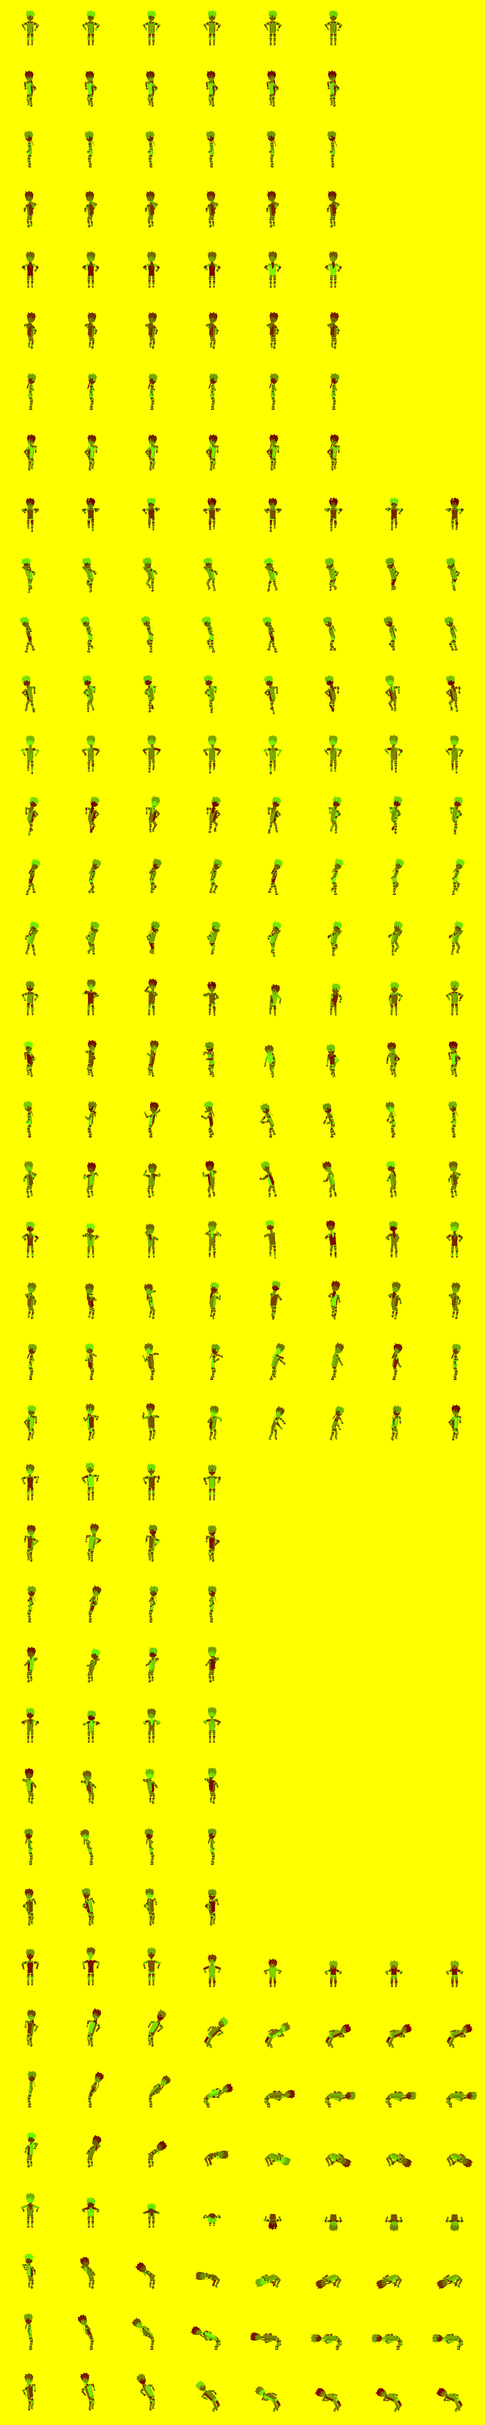
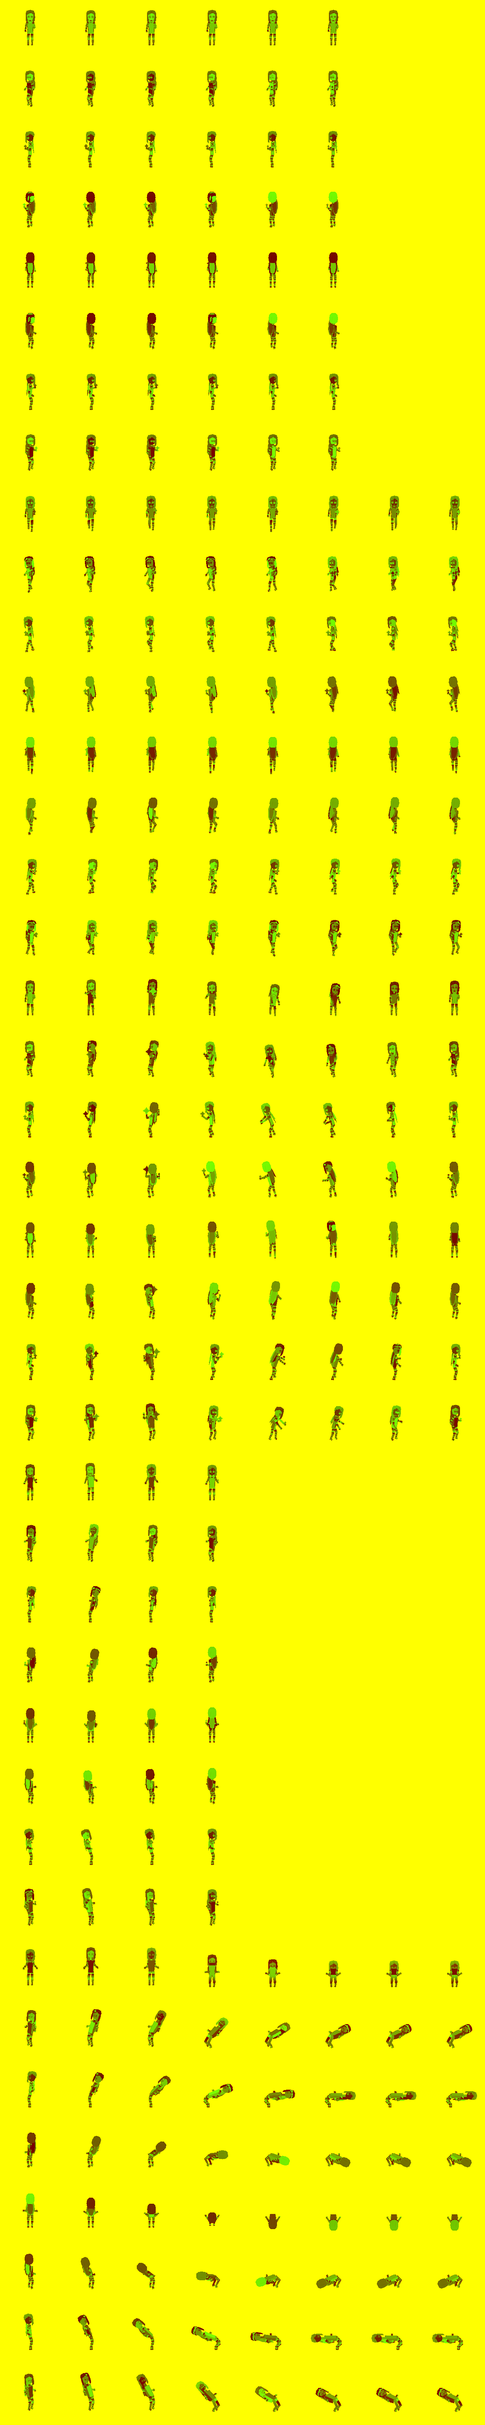
Redraw the Priest as its own character: round face, long gold hair, ivory and crimson robe, upright poses with a holy-light star
The Priest shared the Assassin's face, hair and body. It now has its own head,
hair and circlet, a standing collar, crimson tabard and sun medallion, a longer
mace with a tassel, and its own idle, walk, attack, hurt and die poses. Atlases
re-exported from the rebuilt PixelFlow sprites.

diff --git a/client/game.js b/client/game.js
@@ -30,7 +30,7 @@
       blades: 'Blades', assassinTip: 'Click the Assassin to slash. Change outfits and blades in the field with E.',
       assassinLoading: 'Calling the Assassin…', assassinError: 'Assassin sprites could not load. Select Assassin again to retry.',
       assassinArmorNames: ['Simple cloth', 'Nightweave', 'Moonveil'], assassinWeaponNames: ['Empty hands', 'Twin daggers', 'Moonfang'],
-      priestDesc: 'A hooded healer in the Assassin\u2019s sleek style. Mend and ward your party, then smite what is left standing with a mace and holy light.',
+      priestDesc: 'A golden-haired healer in ivory and crimson robes. Mend and ward your party, then smite what is left standing with a mace and holy light.',
       priestHint: 'Click to move or attack · WASD to walk · Space to strike · 1–9 skills (Mend heals your most wounded ally) · E character · B bags · F talk · Esc for menu',
       maces: 'Mace', priestTip: 'Click the Priest to strike. Change robes and maces in the field with E.',
       priestLoading: 'Calling the Priest…', priestError: 'Priest sprites could not load. Select Priest again to retry.',
@@ -67,7 +67,7 @@
       blades: '쌍검', assassinTip: '암살자를 눌러 베기를 시전하세요. 필드에서 E 키로 장비를 바꿀 수 있습니다.',
       assassinLoading: '암살자 소환 중…', assassinError: '암살자를 불러오지 못했습니다. 다시 선택해 주세요.',
       assassinArmorNames: ['기본 옷', '밤의 의복', '달의 장막'], assassinWeaponNames: ['맨손', '쌍단검', '달송곳니'],
-      priestDesc: '암살자의 날렵한 스타일을 입은 치유 사제. 파티를 치유하고 보호하며, 철퇴와 성스러운 빛으로 적을 응징합니다.',
+      priestDesc: '상아색과 진홍색 로브를 걸친 금발의 치유 사제. 파티를 치유하고 보호하며, 철퇴와 성스러운 빛으로 적을 응징합니다.',
       priestHint: '클릭: 이동·공격 · WASD: 걷기 · 스페이스: 타격 · E: 장비 · F: 대화 · 1–9: 스킬 (첫 스킬은 치유) · Esc: 메뉴',
       maces: '철퇴', priestTip: '사제를 눌러 철퇴를 휘두르세요. 필드에서 E 키로 장비를 바꿀 수 있습니다.',
       priestLoading: '사제 소환 중…', priestError: '사제를 불러오지 못했습니다. 다시 선택해 주세요.',

diff --git a/client/priestsprite.js b/client/priestsprite.js
@@ -1,10 +1,10 @@
 'use strict';
 (() => {
-  // The Assassin\u2019s style as a healer: shares only the equipment compositor; artwork and animation are separate.
+  // A golden-haired healer in ivory and crimson robes: shares only the equipment compositor; artwork and animation are the Priest\u2019s own.
   class PriestSprite extends MageSprite {}
   PriestSprite.TIERS = [];
   PriestSprite.METADATA = 'assets/priest_sprites.txt';
-  PriestSprite.HAIR = ['#e3d6b0', '#9eaccf', '#b5616d', '#624357', '#334c4a', '#465278'];
+  PriestSprite.HAIR = ['#ecd290', '#9eaccf', '#b5616d', '#624357', '#334c4a', '#465278'];
   PriestSprite.SKIN = ['#f0bfac', '#ffe0c5', '#cc927b', '#9c695a'];
   PriestSprite.ARMOR = { none: { name: 'Simple cloth', defense: 0 }, pilgrim: { name: 'Pilgrim robes', defense: 3 }, dawn: { name: 'Dawnweave vestments', defense: 5 } };
   PriestSprite.WEAPON = { none: { name: 'Empty hands', attack: 0 }, mace: { name: 'Oak mace', attack: 4 }, sunmace: { name: 'Sunbreaker mace', attack: 8 } };

diff --git a/scripts/make_priest_sprites.py b/scripts/make_priest_sprites.py
@@ -43,36 +43,37 @@ DIRS = rig.DIRS
 PARTS = ['body', 'armor_pilgrim', 'armor_dawn', 'weapon_mace', 'weapon_sunmace']
 MATS = {
     'skin': ['#92595c', '#ce9182', '#f0bfac', '#ffe0ce'],
-    'hair': ['#151a30', '#293451', '#465278', '#7985ac'],
-    'brow': ['#171526', '#242037', '#332946', '#443750'],
+    'hair': ['#8a6a3a', '#c9a45c', '#ecd290', '#fff4c8'],      # long pale-gold hair (the client recolours by ramp)
+    'brow': ['#6a4c28', '#7e5e34', '#a98650', '#c0985a'],
     'cloth': ['#4a4048', '#76686f', '#a99a9c', '#d8c9c0'],
     'pants': ['#2a2a40', '#43476a', '#68729a', '#97a2c4'],
-    'robe': ['#7a7490', '#aaa3bf', '#dcd6e8', '#fffaf4'],       # ivory robe, lavender in shadow
-    'dawn': ['#a08a8e', '#d4bdb4', '#fbeadb', '#fffefc'],      # warm white vestments
+    'robe': ['#8c7a6e', '#c4b09c', '#ebdcc2', '#fff8e6'],       # warm ivory robe, parchment in shadow
+    'dawn': ['#7f90ae', '#bccbe2', '#eef3fb', '#fdfeff'],      # cool white vestments, blue in shadow
     'gold': ['#6e4a12', '#b0801f', '#e8b840', '#fff0a0'],
-    'stole': ['#4a2a6e', '#7a4aa6', '#b585d8', '#e6c4ff'],     # violet stole, the Assassin's scarf recoloured
+    'stole': ['#5a1424', '#8f2438', '#c8465a', '#f28a94'],     # crimson tabard and tassel
     'leather': ['#2a2030', '#463a50', '#6a5a70', '#98889e'],
     'wood': ['#3a2420', '#6e4336', '#a77a56', '#d6ae82'],
     'silver': ['#3a516d', '#7791b0', '#bdcfe5', '#f2f5ff'],
     'glow': ['#d79a1a', '#ffc94a', '#ffe99a', '#fffbe0'],
-    'iris': ['#6a4a1c', '#a7762c', '#e0b050', '#fff0b0'],
+    'iris': ['#2a5a8c', '#4a8cc4', '#8cc8f0', '#d8f2ff'],
     'white': ['#c0aec4', '#ded2e2', '#f6eef1', '#fffbf6'],
     'mouth': ['#5c2d45', '#86506a', '#c88493', '#e9a4ab'],
 }
 PALETTE = ['#00000000', '#18182a', '#ffffff'] + [c for r in MATS.values() for c in r]
 assert len(PALETTE) == len(set(PALETTE)) and len(PALETTE) <= 255
 COLOR = {name: [3 + 4 * i + k for k in range(4)] for i, name in enumerate(MATS)}
-DEFAULT = dict(root=(0, 0, 0), lean=4, twist=0, roll=0, sway=0, eyes='open',
-               handL=(-13, 6, 50), handR=(13, 3, 48),
+DEFAULT = dict(root=(0, 0, 0), lean=1, twist=0, roll=0, sway=0, eyes='open', light=1.0,
+               handL=(-9, 12, 58), handR=(12, 7, 46),
                footL=(-5, 0, 4), footR=(5, 0, 4),
-               mace=(.1, .3, 1), ground=False, dropped=False)
+               mace=(0, .06, 1), ground=False, dropped=False)
 HIP, SHOULDER = 37, 66
 
 
 def idle(k):
+    # Upright and calm: the mace held like a sceptre, the free palm raised with a small holy light that pulses.
     a = k / 6 * math.tau
-    return dict(root=(0, 0, -.35 * math.sin(a)), sway=math.sin(a),
-                handL=(-13, 6, 50 + .5 * math.sin(a)), eyes='closed' if k == 4 else 'open')
+    return dict(root=(0, 0, -.3 * math.sin(a)), sway=math.sin(a), light=.85 + .3 * math.sin(a),
+                handL=(-9, 12, 58 + .8 * math.sin(a)), eyes='closed' if k == 4 else 'open')
 
 
 def walk(k):
@@ -80,37 +81,38 @@ def walk(k):
     a = q * math.tau
     def foot(s, t):
         t %= 1
-        return (s * 5, 9 - t * 36 if t < .5 else -9 + (t - .5) * 36,
-                4 + (6 * math.sin((t - .5) * math.tau) if t >= .5 else 0))
-    return dict(lean=15, roll=2 * math.sin(a), twist=5 * math.sin(a),
-                root=(0, 0, -.65 * math.cos(a * 2)), sway=3 * math.sin(a),
-                handL=(-14, -4 - math.sin(a) * 3, 53), handR=(14, -5 + math.sin(a) * 3, 52),
-                mace=(.1, .3 - .25 * math.sin(a), 1),
+        return (s * 4, 8 - t * 32 if t < .5 else -8 + (t - .5) * 32,
+                4 + (5 * math.sin((t - .5) * math.tau) if t >= .5 else 0))
+    return dict(lean=5, roll=1.5 * math.sin(a), twist=3 * math.sin(a),
+                root=(0, 0, -.5 * math.cos(a * 2)), sway=3.5 * math.sin(a), light=1 + .2 * math.sin(a * 2),
+                handL=(-10, 10 - math.sin(a) * 2, 56), handR=(12, 7 + math.sin(a) * 2, 46),
+                mace=(0, .08 + .08 * math.sin(a), 1),
                 footL=foot(-1, q), footR=foot(1, q + .5))
 
 
 def attack(k):
-    # Raise the mace, bring it down in front on frame 4 (the impact), the free hand blessing forward.
-    lean = [6, -4, -8, 8, 20, 17, 10, 5][k]
-    twist = [-4, -16, -26, -4, 22, 26, 10, 0][k]
-    right = [(13, 3, 48), (15, -6, 64), (16, -10, 74), (12, 12, 68), (9, 24, 52), (9, 22, 42), (11, 13, 44), (13, 3, 48)][k]
-    mace = [(.1, .3, 1), (.1, -.3, 1), (.1, -.8, .8), (.05, .5, .85), (0, 1, -.1), (0, .85, -.55), (.1, .5, .5), (.1, .3, 1)][k]
-    left = [(-13, 6, 50), (-12, 12, 62), (-10, 18, 70), (-8, 20, 66), (-8, 22, 60), (-10, 16, 54), (-12, 9, 51), (-13, 6, 50)][k]
+    # The light gathers on the free hand while the mace goes up, then the mace comes down and the light is thrown forward.
+    lean = [2, -4, -8, 6, 18, 15, 8, 3][k]
+    twist = [-2, -14, -24, -4, 20, 24, 10, 0][k]
+    right = [(12, 7, 46), (15, -2, 62), (16, -8, 74), (12, 12, 68), (9, 24, 52), (9, 22, 42), (11, 13, 44), (12, 7, 46)][k]
+    mace = [(0, .06, 1), (.1, -.3, 1), (.1, -.8, .8), (.05, .5, .85), (0, 1, -.1), (0, .85, -.55), (.1, .5, .5), (0, .06, 1)][k]
+    left = [(-9, 12, 58), (-10, 13, 64), (-9, 15, 70), (-7, 20, 66), (-6, 26, 58), (-8, 20, 54), (-9, 14, 56), (-9, 12, 58)][k]
+    light = [1, 1.5, 2, 1.3, .6, 0, 0, .6][k]
     f = [0, -.3, -.5, .5, 1, .65, .25, 0][k]
-    return dict(lean=lean, twist=twist, root=(0, max(0, f) * 2, -.6),
+    return dict(lean=lean, twist=twist, root=(0, max(0, f) * 2, -.6), light=light,
                 handL=left, handR=right, mace=mace, sway=-3 * f,
                 footL=(-6, 4 * max(0, f), 4), footR=(6, -5 * max(0, f), 4))
 
 
 def hurt(k):
     f = [.25, 1, .4, 0][k]
-    return dict(lean=-14 * f, root=(0, -2 * f, 0), twist=9 * f,
-                handL=(-16, 5, 55), handR=(15, 5, 52), eyes='closed' if k < 3 else 'open', sway=-2 * f)
+    return dict(lean=-12 * f, root=(0, -2 * f, 0), twist=8 * f, light=0 if k in (1, 2) else .5,
+                handL=(-15, 5, 55), handR=(15, 5, 52), eyes='closed' if k < 3 else 'open', sway=-2 * f)
 
 
 def die(k):
     return dict(lean=[-5, -23, -43, -66, -85, -90, -90, -90][k],
-                root=(0, 8 if k >= 3 else 0, 0), eyes='closed',
+                root=(0, 8 if k >= 3 else 0, 0), eyes='closed', light=0,
                 handL=(-17, 1, 50), handR=(17, 1, 49),
                 footL=(-5, 9 if k >= 3 else 0, 10 if k >= 3 else 4),
                 footR=(5, 9 if k >= 3 else 0, 10 if k >= 3 else 4),
@@ -166,10 +168,10 @@ class Ink:
         cur[take] = dep[take]
         self.index[y0:y1, x0:x1][take] = idx[take]
 
-    def plate(self, points, mat, tone=2, detail=False):
+    def plate(self, points, mat, tone=2, detail=False, push=0):
         proj = [self.project(p) for p in points]
         xy = [p[0] for p in proj]
-        self.poly(xy, COLOR[mat][tone], np.mean([p[1] for p in proj]) - .01, not detail)
+        self.poly(xy, COLOR[mat][tone], np.mean([p[1] for p in proj]) - .01 + push, not detail)
 
     def bone(self, a, b, r1, r2, mat, zpush=0, tone=2):
         pa, za = self.project(a)
@@ -204,7 +206,7 @@ def render_frame(clip, facing, k):
     joints = {}
     for sx, key in ((-1, 'L'), (1, 'R')):
         s = V(sx * 8, 0, SHOULDER)
-        elbow, hand = rig.ik2(s, V(*p['hand' + key]), 13.5, 13.5, unit(V(sx, -.2, -.3)))
+        elbow, hand = rig.ik2(s, V(*p['hand' + key]), 13.5, 13.5, unit(V(sx * .3, -.45, -1)))
         hip = xf((sx * 4.2, 0, HIP))
         knee, ankle = rig.ik2(hip, V(*p['foot' + key]), 17, 17, unit(V(sx * .1, 1, .1)))
         joints[key] = {'shoulder': xf(s), 'elbow': xf(elbow), 'hand': xf(hand),
@@ -219,15 +221,15 @@ def render_frame(clip, facing, k):
     inks = {part: Ink(psi) for part in PARTS}
     body = inks['body']
 
-    def torso(ink, mat, halfwidth, y, bottom=38, top=67):
+    def torso(ink, mat, halfwidth, y, bottom=38, top=67, push=0):
         for sy in (-1, 1):
             pts = [(-halfwidth, sy * y, top), (halfwidth, sy * y, top),
                    (halfwidth * .72, sy * y, 49), (halfwidth * .84, sy * y, bottom),
                    (-halfwidth * .84, sy * y, bottom), (-halfwidth * .72, sy * y, 49)]
-            ink.plate([xf(q) for q in pts], mat, 2 if sy == 1 else 1)
+            ink.plate([xf(q) for q in pts], mat, 2 if sy == 1 else 1, push=push)
         for sx in (-1, 1):
             ink.plate([xf(q) for q in [(sx * halfwidth, -y, top), (sx * halfwidth, y, top),
-                      (sx * halfwidth * .84, y, bottom), (sx * halfwidth * .84, -y, bottom)]], mat, 1)
+                      (sx * halfwidth * .84, y, bottom), (sx * halfwidth * .84, -y, bottom)]], mat, 1, push=push)
 
     torso(body, 'cloth', 7.8, 3.5)
     body.bone(xf((0, 0, 68)), xf((0, 0, 77)), 2.2, 2.1, 'skin')
@@ -240,62 +242,95 @@ def render_frame(clip, facing, k):
         body.bone(j['elbow'], j['hand'], 2, 1.6, 'skin')
         body.bone(j['hand'] - R @ V(0, 0, 1), j['hand'] + R @ V(0, 0, 1.8), 2.2, 1.8, 'skin', -.2)
 
-    # Face and hair are the Assassin's: oriented to the head's projected axis, almond eyes, angular fringe.
+    # The holy light in the free palm: a four-point star that pulses in idle and gathers before an attack.
+    if p['light'] > .05:
+        lc, ld = body.project(joints['L']['hand'] + V(0, 0, 6.5))
+        for r, inner, tone, outline, push in ((4.6, .34, 1, True, 6), (3.4, .38, 2, False, 6.2), (1.7, .55, 3, False, 6.4)):
+            r *= p['light']
+            star = [lc + V(math.sin(i * math.pi / 4), math.cos(i * math.pi / 4)) * r * (1 if i % 2 == 0 else inner * 1.6) for i in range(8)]
+            body.poly(star, COLOR['glow'][tone], ld - push, outline)
+
+    # A soft round face with big sky-blue eyes, a centre-parted fringe, long pale-gold hair and a gold sun circlet.
     hc, hd = body.project(xf((0, 0, 87)))
     up = unit(body.project(xf((0, 0, 96)))[0] - hc)
     right = V(-up[1], up[0])
     H = lambda x, y: hc + right * x + up * y
     front = -math.cos(psi + rig.rad(p['twist']))
     side = -math.sin(psi + rig.rad(p['twist']))
-    skin_shape = [(-8, 7), (-9.5, 1), (-8.4, -5), (-4.3, -10), (0, -11.3), (4.3, -10), (8.4, -5), (9.5, 1), (8, 7), (0, 10)]
+    skin_shape = [(-8.4, 7), (-9.8, 0), (-8.6, -6), (-4.8, -10.2), (0, -11), (4.8, -10.2), (8.6, -6), (9.8, 0), (8.4, 7), (0, 10)]
     body.poly([H(*q) for q in skin_shape], COLOR['skin'][2], hd - 4)
-    body.poly([H(*q) for q in [(4, 6), (8, 6), (9, 0), (7, -6), (0, -11), (3, -4)]], COLOR['skin'][1], hd - 4.05, False)
+    body.poly([H(*q) for q in [(4.5, 6), (8.4, 6), (9.7, 0), (7.6, -6), (0, -10.8), (3.5, -4)]], COLOR['skin'][1], hd - 4.05, False)
     if front < -.4:
-        body.poly([H(*q) for q in [(-9, 8), (-10, 0), (-8, -8), (-4, -10), (5, -9), (9, -5), (10, 4), (6, 12), (-3, 13)]], COLOR['hair'][1], hd - 5)
+        body.poly([H(*q) for q in [(-10, 9), (-11.4, 0), (-10, -9), (-5, -13), (5, -13), (10, -9), (11.4, 0), (10, 9), (5, 14), (-5, 14)]], COLOR['hair'][2], hd - 5)
+        body.poly([H(*q) for q in [(0, 1), (5, 4), (10, 4), (11.4, 0), (10, -9), (5, -13), (0, -12), (1, -5)]], COLOR['hair'][1], hd - 5.05, False)
+        body.poly([H(*q) for q in [(-8, 11), (-3, 13.6), (4, 13.2), (7.5, 10.5), (2, 11.6), (-4, 11)]], COLOR['hair'][3], hd - 5.1, False)
+        body.poly([H(*q) for q in [(-5, 3), (-2, 5), (-3, -6), (-6, -9)]], COLOR['hair'][3], hd - 5.12, False)
     else:
         for sx in (-1, 1):
             if abs(side) > .85 and sx * side < 0:
                 continue
-            ex = sx * 4 * max(.28, front) + side * 3.3
-            ey = -1.3
+            ex = sx * 4.2 * max(.28, front) + side * 3.4
+            ey = -2.6
             if p['eyes'] == 'closed':
-                body.poly([H(ex - 2.3, ey), H(ex, ey - .6), H(ex + 2.3, ey + .5)], 1, hd - 5.8)
+                body.poly([H(ex - 2.3, ey + .7), H(ex, ey - .5), H(ex + 2.3, ey + .7), H(ex, ey + .1)], 1, hd - 5.8)
             else:
-                body.poly([H(ex - 2.6, ey + .6), H(ex - 1.2, ey + 2), H(ex + 2.4, ey + 1.1),
-                           H(ex + 2, ey - 1.8), H(ex - .4, ey - 2)], COLOR['white'][2], hd - 5.3)
-                body.poly([H(ex - .5, ey + 1.5), H(ex + 1.2, ey + 1), H(ex + 1.1, ey - 1.6), H(ex - .6, ey - 1.6)], COLOR['iris'][2], hd - 5.5, False)
-                body.poly([H(ex - .1, ey + .8), H(ex + .5, ey + .8), H(ex + .5, ey - 1.2), H(ex - .1, ey - 1.2)], 1, hd - 5.55, False)
-                body.poly([H(ex - 2.9, ey + 1.6), H(ex - 1, ey + 2.5), H(ex + 2.6, ey + 1.6), H(ex + 2.3, ey + .8)], 1, hd - 5.6, False)
-                body.poly([H(ex - .7, ey + .7), H(ex + .1, ey + .7), H(ex + .1, ey + 1.4), H(ex - .7, ey + 1.4)], COLOR['white'][3], hd - 5.7, False)
-            body.poly([H(ex - 2.1, 3), H(ex + 2, 3.3), H(ex + 1.7, 3.8), H(ex - 1.9, 3.5)], COLOR['brow'][0], hd - 5.8, False)
+                body.poly([H(ex - 2, ey + 1.5), H(ex, ey + 2.2), H(ex + 2, ey + 1.5), H(ex + 2.2, ey - .5),
+                           H(ex + 1, ey - 2), H(ex - 1, ey - 2), H(ex - 2.2, ey - .5)], COLOR['white'][2], hd - 5.3)
+                body.poly([H(ex - 1.5, ey + 1.7), H(ex + 1.5, ey + 1.7), H(ex + 1.7, ey - 1.7), H(ex - 1.7, ey - 1.7)], COLOR['iris'][1], hd - 5.5, False)
+                body.poly([H(ex - 1.5, ey - .3), H(ex + 1.5, ey - .3), H(ex + 1.5, ey - 1.7), H(ex - 1.5, ey - 1.7)], COLOR['iris'][2], hd - 5.52, False)
+                body.poly([H(ex - .6, ey + .9), H(ex + .6, ey + .9), H(ex + .6, ey - .9), H(ex - .6, ey - .9)], 1, hd - 5.55, False)
+                body.poly([H(ex - 2.4, ey + 1.1), H(ex, ey + 2.5), H(ex + 2.4, ey + 1.2), H(ex + 2.5, ey + .4), H(ex, ey + 1.6), H(ex - 2.3, ey + .3)], 1, hd - 5.6, False)
+                body.poly([H(ex - 1.1, ey + 1.2), H(ex - .1, ey + 1.2), H(ex - .1, ey + .2), H(ex - 1.1, ey + .2)], COLOR['white'][3], hd - 5.7, False)
+                body.poly([H(ex + .5, ey - .9), H(ex + 1.2, ey - .9), H(ex + 1.2, ey - 1.4), H(ex + .5, ey - 1.4)], COLOR['white'][3], hd - 5.7, False)
+            body.poly([H(ex - 2, 2.4), H(ex, 3), H(ex + 2, 2.4), H(ex + 2, 2), H(ex, 2.6), H(ex - 2, 2)], COLOR['brow'][1], hd - 5.8, False)
+            body.poly([H(ex - 1.8, -4.5), H(ex + 1.8, -4.5), H(ex + 1.8, -5.5), H(ex - 1.8, -5.5)], COLOR['mouth'][3], hd - 5.3, False)
         nx = side * 5
-        body.poly([H(nx, -3.7), H(nx + .6, -5), H(nx + 1.5, -4.3)], COLOR['skin'][1], hd - 5.5, False)
-        body.poly([H(nx - 1, -7.4), H(nx + 1.2, -7.3), H(nx + .6, -7.8)], COLOR['mouth'][1], hd - 5.6, False)
-    crown = [(-10, 2), (-11, 8), (-8, 12), (-9, 15), (-3, 13), (1, 16), (3, 13),
-             (8, 14), (8, 11), (11, 8), (10, 2), (8, -3), (6, 2), (4, -1), (1, 6), (-2, 1), (-5, 6), (-8, -2)]
-    body.poly([H(*q) for q in crown], COLOR['hair'][1], hd - 6)
-    for wedge in [[(-8, 10), (-2, 12), (-4, 6), (-8, 3)], [(-1, 12), (3, 13), (6, 7), (2, 7)], [(6, 11), (9, 8), (8, 3)]]:
-        body.poly([H(*q) for q in wedge], COLOR['hair'][2], hd - 6.1, False)
-    body.poly([H(*q) for q in [(-6, 11), (-2, 12), (-3, 10), (-6, 8)]], COLOR['hair'][3], hd - 6.2, False)
-    body.plate([xf(q) for q in [(-3, -5, 79), (2, -5, 79), (4 + p['sway'], -8, 65),
-                               (1 + p['sway'] * 1.5, -10, 59), (-1 + p['sway'], -9, 65)]], 'hair', 1)
+        body.poly([H(nx - .3, -4.4), H(nx + .4, -5.3), H(nx + 1, -4.6)], COLOR['skin'][1], hd - 5.5, False)
+        body.poly([H(nx - 1.2, -7.3), H(nx, -7.9), H(nx + 1.2, -7.3), H(nx, -7.1)], COLOR['mouth'][1], hd - 5.6, False)
+        # Fringe parted in the middle, with long locks framing the cheeks.
+        fringe = [(-10.8, -1), (-11.4, 7), (-8.8, 13), (0, 15.4), (8.8, 13), (11.4, 7), (10.8, -1), (9.2, 2.6), (6.6, 4.4),
+                  (3.2, 6.4), (.4, 9.6), (-.8, 7.4), (-4, 4.8), (-7, 4), (-9.2, 1.8)]
+        body.poly([H(*q) for q in fringe], COLOR['hair'][2], hd - 6)
+        body.poly([H(*q) for q in [(1, 9.6), (3.2, 6.4), (6.6, 4.4), (9.2, 2.6), (10.8, -1), (11.4, 7), (8.8, 13), (4, 14.6)]], COLOR['hair'][1], hd - 6.05, False)
+        body.poly([H(*q) for q in [(-8.4, 11), (-3, 13.8), (3, 13.9), (7, 12), (2, 12.2), (-3, 12)]], COLOR['hair'][3], hd - 6.1, False)
+        for sx in (-1, 1):
+            if abs(side) > .85 and sx * side < 0:
+                continue
+            body.poly([H(sx * q[0], q[1]) for q in [(11, 6), (12, -4), (11.4, -13), (8.4, -16), (8, -8), (8.6, 0), (9.6, 4)]], COLOR['hair'][2], hd - 6.2)
+            body.poly([H(sx * q[0], q[1]) for q in [(11.6, 2), (12, -4), (11.4, -13), (10, -14), (10.4, -5)]], COLOR['hair'][1], hd - 6.25, False)
+    if front >= -.4:
+        body.poly([H(*q) for q in [(-10.8, 5.6), (-6, 8.4), (0, 9.4), (6, 8.4), (10.8, 5.6), (10.8, 4.2), (6, 7), (0, 8), (-6, 7), (-10.8, 4.2)]], COLOR['gold'][2], hd - 6.4)
+        gx = side * 7.5
+        body.poly([H(gx, 11.2), H(gx + 2.1, 8.8), H(gx, 6.6), H(gx - 2.1, 8.8)], COLOR['glow'][2], hd - 6.5)
+        body.poly([H(gx, 9.8), H(gx + .8, 8.8), H(gx, 7.8), H(gx - .8, 8.8)], COLOR['glow'][3], hd - 6.55, False)
+    # Long hair falls behind the shoulders (seen from the back and sides) tied with a crimson ribbon.
+    sw = p['sway']
+    body.plate([xf(q) for q in [(-7, -5.6, 83), (7, -5.6, 83), (9.4, -7, 66), (8.4 + sw, -8.4, 50), (4.6 + sw * 1.3, -9, 42),
+                               (.6 + sw * 1.4, -8.8, 47), (-3.4 + sw * 1.3, -9, 41), (-7.6 + sw, -8.6, 49), (-9.4, -7, 66)]], 'hair', 1)
+    body.plate([xf(q) for q in [(-5, -6.1, 80), (5, -6.1, 80), (6.6, -7.2, 64), (5 + sw, -8.2, 49), (1 + sw * 1.3, -8.4, 45),
+                               (-4 + sw, -8.2, 48), (-6.6, -7.2, 64)]], 'hair', 2)
+    for sx in (-1, 1):
+        body.plate([xf(q) for q in [(sx * 9.2, -5.4, 80), (sx * 9.8, -8.4, 70), (sx * 9, -8.8 + sw, 52), (sx * 9.4, -5.6, 58)]], 'hair', 2 if sx > 0 else 1, True)
+    body.plate([xf(q) for q in [(-8.4, -6.6, 62), (8.4, -6.6, 62), (8.4, -6.7, 59.2), (-8.4, -6.7, 59.2)]], 'stole', 2)
 
     for key, mat in [('armor_pilgrim', 'robe'), ('armor_dawn', 'dawn')]:
         ink = inks[key]
         dawn = mat == 'dawn'
-        torso(ink, mat, 8.6, 4.3, 34, 69)
+        torso(ink, mat, 8.6, 4.3, 34, 69, -1.5)
         # Long robe: a skirt that flares to a hem above the boots, swaying with the body.
         hem, wide, deep, sway = 15, 12, 8.4, p['sway'] * .8
+        if p['ground']:
+            wide, deep = 9.6, 6.6
         for sy in (-1, 1):
             xy = [(-8.2, sy * 4.5, 38), (8.2, sy * 4.5, 38), (wide + sway, sy * deep, hem), (-wide + sway, sy * deep, hem)]
-            ink.plate([xf(q) for q in xy], mat, 3 if sy == 1 else 2)
+            ink.plate([xf(q) for q in xy], mat, 3 if sy == 1 else 2, push=-3)
         for sx in (-1, 1):
             ink.plate([xf(q) for q in [(sx * 8.2, -4.5, 38), (sx * 8.2, 4.5, 38),
-                      (sx * wide + sway, deep, hem), (sx * wide + sway, -deep, hem)]], mat, 2)
+                      (sx * wide + sway, deep, hem), (sx * wide + sway, -deep, hem)]], mat, 2, push=-3)
         # Gold hem band, front and back.
         for sy in (-1, 1):
             ink.plate([xf(q) for q in [(-wide + sway, sy * deep, hem + 3.2), (wide + sway, sy * deep, hem + 3.2),
-                                      (wide + sway, sy * deep, hem), (-wide + sway, sy * deep, hem)]], 'gold', 2 if sy == 1 else 1, True)
+                                      (wide + sway, sy * deep, hem), (-wide + sway, sy * deep, hem)]], 'gold', 2 if sy == 1 else 1, True, push=-3.6)
         # Belt cord.
         ink.plate([xf(q) for q in [(-8.6, 4.8, 42), (8.6, 4.8, 42), (8.4, 4.8, 39), (-8.4, 4.8, 39)]], 'leather', 2)
         ink.plate([xf(q) for q in [(-1.2, 5, 39), (1.2, 5, 39), (2, 5.3, 29), (-.4, 5.3, 28)]], 'gold', 2)
@@ -307,26 +342,35 @@ def render_frame(clip, facing, k):
             ink.bone(j['hand'] - (j['hand'] - j['elbow']) * .2, j['hand'], 3.8, 3.4, 'gold', -.9)
             ink.bone(j['knee'] + (j['ankle'] - j['knee']) * .25, j['ankle'], 3.1, 2.5, 'leather', -.8)
             ink.bone(j['ankle'] + V(0, -1, -1), j['ankle'] + V(0, 4.5, -2), 2.5, 2.5, 'leather', -.8)
-        # Mantle over the shoulders and a violet stole down the front (the Assassin's scarf, kept).
+        # Mantle over the shoulders, a standing fan collar behind the head, a crimson tabard front and back, a sun medallion.
         ink.plate([xf(q) for q in [(-9.5, 4.9, 71), (9.5, 4.9, 71), (11, 5.2, 60), (0, 5.5, 55), (-11, 5.2, 60)]], mat, 1)
         ink.plate([xf(q) for q in [(-9.5, -4.9, 71), (9.5, -4.9, 71), (11, -5.2, 60), (0, -5.5, 55), (-11, -5.2, 60)]], mat, 1)
+        ink.plate([xf(q) for q in [(-8.6, -6.9, 70), (-13, -7, 86), (-6.5, -7.1, 91), (0, -7.2, 93), (6.5, -7.1, 91), (13, -7, 86), (8.6, -6.9, 70)]], mat, 2)
+        ink.plate([xf(q) for q in [(-13, -7.1, 86), (-6.5, -7.2, 91), (0, -7.3, 93), (6.5, -7.2, 91), (13, -7.1, 86), (12.2, -7.1, 84.6), (6.4, -7.2, 89.6), (0, -7.3, 91.4), (-6.4, -7.2, 89.6), (-12.2, -7.1, 84.6)]], 'gold', 2, True)
         ink.plate([xf(q) for q in [(-4.2, 5.6, 75), (4.2, 5.6, 75), (3.2, 5.7, 70), (0, 5.9, 66), (-3.2, 5.7, 70)]], 'gold', 2)
-        stole = [(-3.2, 5.7, 73), (3.2, 5.7, 73), (3.6 + sway * .4, 5.9 + 1.2, 38), (3.8 + sway * .6, deep + .4, hem - 3),
-                 (-3.8 + sway * .6, deep + .4, hem - 3), (-3.6 + sway * .4, 5.9 + 1.2, 38)]
-        ink.plate([xf(q) for q in stole], 'stole', 2)
-        for sx in (-1, 1):
-            ink.plate([xf(q) for q in [(sx * 3.2, 5.8, 73), (sx * 2.5, 5.8, 73), (sx * 2.9 + sway * .4, 6.8, 38), (sx * 3.6 + sway * .6, deep + .5, hem - 3)]], 'gold', 2, True)
-        # Sun emblem on the chest: a small gold cross over the stole.
-        ink.plate([xf(q) for q in [(-.8, 6, 66), (.8, 6, 66), (.8, 6, 52), (-.8, 6, 52)]], 'gold', 3, True)
-        ink.plate([xf(q) for q in [(-3.8, 6, 61.5), (3.8, 6, 61.5), (3.8, 6, 59.2), (-3.8, 6, 59.2)]], 'gold', 3, True)
+        for sy, bulge in ((1, 1.2), (-1, 0)):
+            tab = [(-3.8, sy * (5.7 + bulge * .2), 72), (3.8, sy * (5.7 + bulge * .2), 72), (4.6 + sway * .4, sy * (5.9 + bulge), 38),
+                   (5.2 + sway * .6, sy * (deep + .4), hem - 3), (0 + sway * .6, sy * (deep + .5), hem - 6.5),
+                   (-5.2 + sway * .6, sy * (deep + .4), hem - 3), (-4.6 + sway * .4, sy * (5.9 + bulge), 38)]
+            ink.plate([xf(q) for q in tab], 'stole', 2 if sy == 1 else 1)
+            for sx in (-1, 1):
+                ink.plate([xf(q) for q in [(sx * 3.8, sy * 5.8, 72), (sx * 3.1, sy * 5.8, 72), (sx * 3.9 + sway * .4, sy * 6.8, 38), (sx * 4.6 + sway * .6, sy * (deep + .5), hem - 3)]], 'gold', 2, True)
+        # Sun medallion on the chest: a gold disc with a white-gold core and four rays.
+        for i in range(4):
+            ang = i * math.pi / 2
+            c, s_ = math.cos(ang), math.sin(ang)
+            ink.plate([xf((-1.1 * s_ + 3.4 * c, 6.15, 62 + 1.1 * c + 3.4 * s_)), xf((1.1 * s_ + 3.4 * c, 6.15, 62 - 1.1 * c + 3.4 * s_)),
+                       xf((5.6 * c, 6.15, 62 + 5.6 * s_))], 'gold', 3, True)
+        ink.plate([xf((3.6 * math.cos(i / 8 * math.tau), 6.2, 62 + 3.6 * math.sin(i / 8 * math.tau))) for i in range(8)], 'gold', 2)
+        ink.plate([xf((1.9 * math.cos(i / 8 * math.tau), 6.25, 62 + 1.9 * math.sin(i / 8 * math.tau))) for i in range(8)], 'glow', 3, True)
         if dawn:
             for sx in (-1, 1):
                 j = joints['L' if sx < 0 else 'R']
                 ink.bone(j['shoulder'], j['shoulder'] + R @ V(sx * 3, 0, -3), 3.4, 2.2, 'gold', -1.1)
             # A thin halo floating above the head.
-            ring = lambda r, t: H(r * math.cos(t), 19 + r * .5 * math.sin(t))
+            ring = lambda r, t: H(r * math.cos(t), 24 + r * .5 * math.sin(t))
             steps = 24
-            for width, color, push in ((10.0, lambda a: 1, 0), (9.2, lambda a: COLOR['glow'][2 if math.sin(a) > 0 else 1], .1)):
+            for width, color, push in ((10.0, lambda a: 1, 0), (9.2, lambda a: COLOR['glow'][3 if math.sin(a) > 0 else 2], .1)):
                 for i in range(steps):
                     a, b = i / steps * math.tau, (i + 1) / steps * math.tau
                     inner = 7.2 if width > 9.5 else 7.9
@@ -343,7 +387,7 @@ def render_frame(clip, facing, k):
             across = unit(V(u[1], -u[0], 0))
         # The mace is gripped near its butt, so most of it stands out beyond the fist.
         butt = hand - u * 5
-        neck = hand + u * (19 if sun else 16)
+        neck = hand + u * (21 if sun else 19)
         ink.bone(butt, neck, 1.5, 1.5, 'gold' if sun else 'wood', -.1, 2)
         ink.bone(hand - u * 1.5, hand + u * 2.5, 1.7, 1.7, 'leather', -.12)
         c = neck + u * 4
@@ -359,6 +403,9 @@ def render_frame(clip, facing, k):
         for sgn in (-1, 1):
             ink.plate([c + across * sgn * rr * .9 + u * 1.4, c + across * sgn * (rr + 2.2), c + across * sgn * rr * .9 - u * 1.4], 'gold' if sun else 'silver', 1)
         ink.plate([c + u * rr * 1.1 - across * 1, c + u * (rr + 2.8), c + u * rr * 1.1 + across * 1], 'gold' if sun else 'silver', 2)
+        tail = V(0, 0, -9) + across * p['sway'] * .3
+        ink.plate([neck + across * 1.3, neck - across * 1.3, neck + tail], 'stole', 2)
+        ink.plate([neck + tail + across * .9, neck + tail - across * .9, neck + tail * 1.25], 'gold', 2)
         if sun:
             for t in (0, 1, 2, 3):
                 ang = t * math.pi / 2 + math.pi / 4
@@ -538,7 +585,7 @@ def export(local=False):
             'depth': {'encoding': 'R*256+G', 'offset': 512, 'scale': 64, 'near': 'smaller'},
             'facing': 'Same eight-direction formula and foot anchor as assassin_sprites.txt',
             'attack': {'duration': .4, 'impact': .2},
-            'style': '2D Korean RPG anime cel illustration', 'portrait': [57, 15, 46, 46],
+            'style': '2D Korean RPG anime cel illustration', 'portrait': [57, 19, 46, 46],
             'editing': 'One PixelFlow sprite per clip and facing (priest_<clip>_<facing>), body visible, equipment hidden. build --replace discards edits.'}
     (ASSETS / 'priest_sprites.txt').write_text(json.dumps(meta, indent=2) + '\n')
     print('exported five parts and five depth maps', size, flush=True)
